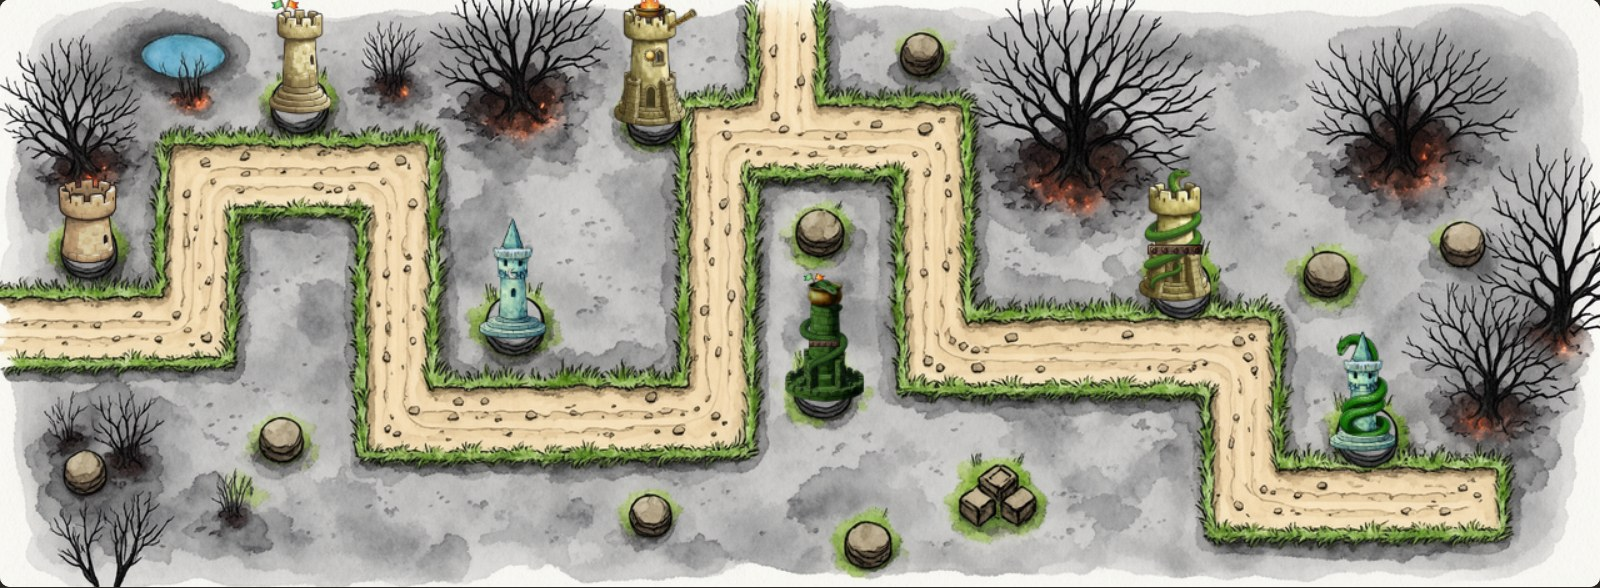
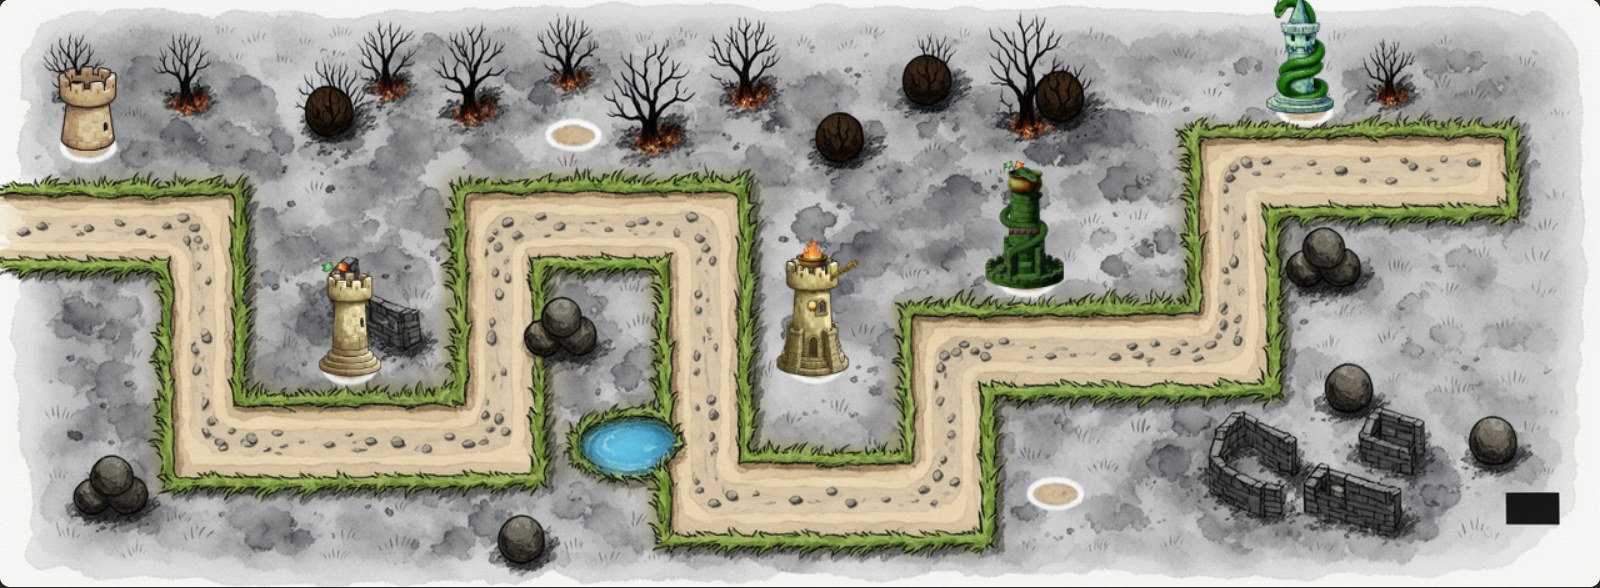
chore: try flat paving and stone rings as build plots for #145

diff --git a/experiments/145-tower-blocks/turm.ts b/experiments/145-tower-blocks/turm.ts
@@ -271,7 +271,11 @@ async function renderMap(): Promise<void> {
   const map = (await (await fetch(mapArt['./karte/karte.json']!)).json()) as MapData;
   ctx.drawImage(await load(mapArt['./karte/karte.png']!), 0, 0, canvas.width, canvas.height);
   // A tower stage II is 104 px tall at scale 1, as in the game; it stands on its site, lower ones in front.
-  const placed = map.sites.map((site, i) => ({ site, sentence: sentenceOf(EXAMPLES[i % EXAMPLES.length]!) })).sort((a, b) => a.site.y - b.site.y);
+  // Every third site stays empty, to see a free plot next to built ones.
+  const placed = map.sites
+    .map((site, i) => ({ site, i, sentence: sentenceOf(EXAMPLES[i % EXAMPLES.length]!) }))
+    .filter(({ i }) => i % 3 !== 2)
+    .sort((a, b) => a.site.y - b.site.y);
   for (const { site, sentence } of placed) drawTower(ctx, sentence, site.x, site.y + 14 * map.scale, 104 * map.scale);
 }
 

diff --git a/experiments/143-style-lora/karten.py b/experiments/143-style-lora/karten.py
@@ -46,22 +46,27 @@ LEAFY = "dark green circles are leafy trees seen from above"
 BURNT = "dark brown circles are burnt trees seen from above, bare and leafless, with charred black branches and no green at all"
 BURNT_COLOURS = ((92, 70, 56), (104, 80, 62), (82, 62, 50))
 MEADOW = "Vary the meadow with darker and lighter green, wildflowers and grass tufts."
-# Second try (`--plaetze`): klein put a pond into a bend of the road, where the best site lies, nearly every time.
-# The sites go into the sketch as flat stone slabs, and the prompt rules out any other water.
-PLOTS = (
-    " The small square beige slabs are flat stone building plots: paint them as plain flat stone slabs set into the "
-    "ground, with nothing standing on them and nothing covering them. Add no other water: no pond, puddle or stream "
-    "anywhere else, also not inside the bends of the roads."
+# Second try (plots in the sketch): klein put a pond into a bend of the road, where the best site lies, nearly every time.
+# The sites go into the sketch as plots, and the prompt rules out any other water. `--platz` picks their look:
+# square slabs (#143); round ones, since the towers of #145 stand on round feet, as flat paving level with the ground
+# or only a ring of stones set into it. Round discs ("rund") came out as stone drums looking like boulders.
+NO_WATER = (
+    " Add no other water: no pond, puddle or stream anywhere else, also not inside the bends of the roads."
 )
+PLOTS = {
+    "quadrat": " The small square beige slabs are flat stone building plots: paint them as plain flat stone slabs set "
+    "into the ground, with nothing standing on them and nothing covering them.",
+    "rund": " The small round beige discs are flat round stone building plots: paint them as plain round stone "
+    "platforms set into the ground, with nothing standing on them and nothing covering them.",
+    "pflaster": " The small flat beige ovals are building plots: paint each as a flat round patch of worn paving "
+    "stones lying level with the ground, completely flat, no height, no rim, no step, not a rock or a pillar, with "
+    "nothing standing on it.",
+    "ring": " The thin beige oval rings are building plots: paint each as a flat ring of small stones laid level into "
+    "the ground around a patch of bare earth, completely flat, not a rock or a pillar, with nothing standing in it.",
+}
 PLOT, PLOT_EDGE = (222, 210, 186), (150, 136, 112)
-# The towers of #145 stand on round feet, so square slabs looked wrong under them: `--rund` sketches round ones,
-# a little wider than a stage I tower's foot.
-PLOTS_ROUND = (
-    " The small round beige discs are flat round stone building plots: paint them as plain round stone platforms set "
-    "into the ground, with nothing standing on them and nothing covering them. Add no other water: no pond, puddle or "
-    "stream anywhere else, also not inside the bends of the roads."
-)
-PLOT_RADIUS = 1.1  # times the half size of a site's pad
+# Round plots as wide as a stage II tower's foot, squashed as seen slightly from above so they read as flat ground.
+PLOT_RADIUS, PLOT_FLAT = 1.0, 0.6
 ASH = (
     "The land is an ash field after a great fire: grey soot and ash lie over pale dry grass, the trees are burnt and "
     "bare, a few embers glow; keep it readable and not too dark."
@@ -209,8 +214,7 @@ def main() -> None:
     parser.add_argument("maps", nargs="+")
     parser.add_argument("--takes", type=int, default=4, help="paintings per map")
     parser.add_argument("--dry-run", action="store_true", help="only draw the sketches")
-    parser.add_argument("--plaetze", action="store_true", help="draw the build sites as stone slabs into the sketch")
-    parser.add_argument("--rund", action="store_true", help="with --plaetze: round slabs instead of square ones")
+    parser.add_argument("--platz", choices=PLOTS, help="draw the build sites into the sketch, in this look")
     parser.add_argument("--base", action="store_true", help="paint with klein 4B base instead of the distilled model")
     args = parser.parse_args()
     OUT.mkdir(exist_ok=True)
@@ -223,26 +227,32 @@ def main() -> None:
         # Ash fields since their trees are sketched and named burnt.
         if m.get("ash") and not m["indoor"]:
             m["key"] += "-verbrannt"
-        if args.plaetze:
-            m["key"] += "-r" if args.rund else "-p"
+        if args.platz:
+            m["key"] += {"quadrat": "-p", "rund": "-r", "pflaster": "-pf", "ring": "-ri"}[args.platz]
         template = OUT / f"skizze-{m['key']}.png"
         img = sketch(m, layout)
-        if args.plaetze:
+        if args.platz:
             draw, half, k = ImageDraw.Draw(img), layout["siteHalf"] * m.get("scale", 1) * DRAW, DRAW
             for site in m["sites"]:
                 x, y = site["x"] * k, site["y"] * k
-                if args.rund:
-                    r = half * PLOT_RADIUS
-                    draw.ellipse((x - r, y - r, x + r, y + r), fill=PLOT, outline=PLOT_EDGE, width=3)
-                else:
+                if args.platz == "quadrat":
                     draw.rectangle((x - half, y - half, x + half, y + half), fill=PLOT, outline=PLOT_EDGE, width=3)
+                    continue
+                # Towers stand with their foot a little below the site's centre (turm.ts), so the plot does too.
+                rx, y = half * PLOT_RADIUS, y + 8 * m.get("scale", 1) * k
+                ry = rx * (PLOT_FLAT if args.platz != "rund" else 1)
+                box = (x - rx, y - ry, x + rx, y + ry)
+                if args.platz == "ring":
+                    draw.ellipse(box, outline=PLOT, width=max(3, round(rx * 0.22)))
+                else:
+                    draw.ellipse(box, fill=PLOT, outline=PLOT_EDGE, width=3)
         img.save(template)
         if m["indoor"]:
             prompt = INDOOR.format(ash=", blackened with soot where the library burnt" if m.get("ash") else "")
         else:
             prompt = OUTDOOR.format(ground=ASH if m.get("ash") else MEADOW, trees=BURNT if m.get("ash") else LEAFY)
-        if args.plaetze:
-            prompt += PLOTS_ROUND if args.rund else PLOTS
+        if args.platz:
+            prompt += PLOTS[args.platz] + NO_WATER
         uri = jpeg_uri(template)
         for take in range(1, args.takes + 1):
             inputs = {"prompt": prompt, "seed": take, "output_format": "png", "images": [uri], "aspect_ratio": "match_input_image"}
